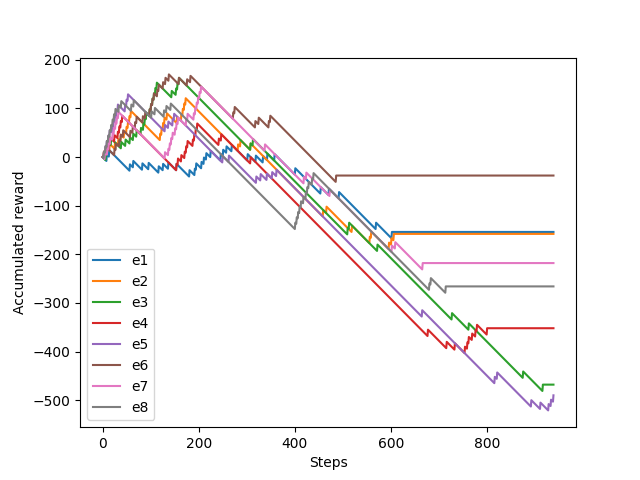
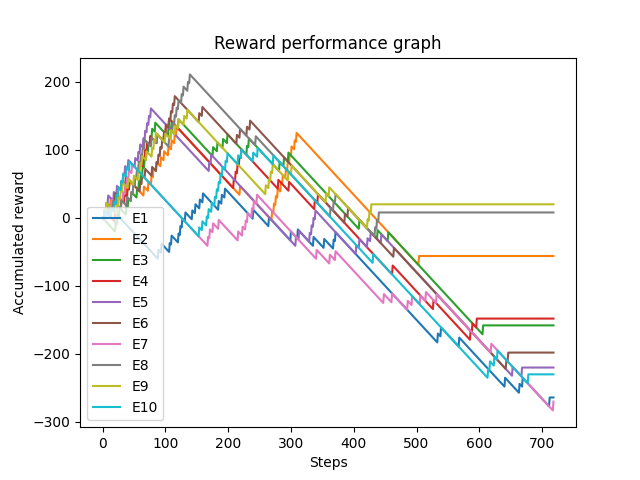
Minor changes

diff --git a/main.py b/main.py
@@ -74,11 +74,13 @@ def plotPerformanceBank(name='performance_bank_plot'):
     for i, ba in enumerate(bank):
         plt.plot(bank_plot_steps[:max(max_len)],
                  np.pad(ba, (0, max(max_len) - len(ba)),
-                        'constant', constant_values=ba[len(ba) - 1]), label='e%d' % (i + 1))
+                        'constant', constant_values=ba[len(ba) - 1]), label='E%d' % (i + 1))
+    plt.title('Reward performance graph')
     plt.xlabel('Steps')
     plt.ylabel('Accumulated reward')
     plt.legend()
     plt.savefig('Images/%s.png' % name)
+    plt.clf()
 
 # ----------------------------------------------------------
 
@@ -91,23 +93,25 @@ delivery_tracker = np.zeros(FIRST_STEPS + SECOND_STEPS)
 
 def plotPerformanceDelSteps(name='performance_del_steps_plot'):
     plt.figure(2)
-    curr_nob = 0
-    last_pos = 0
+    curr_nob = -1
+    last_pos = -1
     track = -1
-    while delivery_tracker[track] != num_of_blocks_delivered: track -= 1
-    for i in range(FIRST_STEPS + SECOND_STEPS + track, FIRST_STEPS + SECOND_STEPS):
-        delivery_tracker[i] = num_of_blocks_delivered
-    for i, n in enumerate(delivery_tracker):
-        if curr_nob == 16:
+    snapshot_delivery_tracker = delivery_tracker[:delivery_steps]
+    snapshot_delivery_plot_steps = delivery_plot_steps[:delivery_steps]
+    while snapshot_delivery_tracker[track] != num_of_blocks_delivered: track -= 1
+    for j in range(delivery_steps + track, delivery_steps):
+        snapshot_delivery_tracker[j] = num_of_blocks_delivered
+    for i, n in enumerate(snapshot_delivery_tracker):
+        if curr_nob == 15:
             curr_nob = -1
         if n == curr_nob + 1:
             curr_nob += 1
             incre = 1/(i - last_pos)
             for j in range(last_pos + 1, i):
-                delivery_tracker[j] = delivery_tracker[j-1] + incre
+                snapshot_delivery_tracker[j] = snapshot_delivery_tracker[j-1] + incre
             last_pos = i
-
-    plt.plot(delivery_plot_steps, delivery_tracker)
+    plt.plot(snapshot_delivery_plot_steps, snapshot_delivery_tracker)
+    plt.title('Blocks delivered performance graph')
     plt.xlabel('Steps')
     plt.ylabel('Block delivered')
     plt.savefig('Images/%s.png' % name)
@@ -251,9 +255,8 @@ def main():
     if plot:
         plotPerformanceBank()
         plotPerformanceDelSteps()
-        plt.show()
 
-def applyAction(action):
+def applyAction(action, state):
     global drop_off_loc
     global pick_up_loc
     global has_block
@@ -374,7 +377,7 @@ def doSteps(steps, policy, method):
         bank_account.append(bank_account[len(bank_account)-1]+reward)
 
         # has_block gets updated here
-        applyAction(action)
+        applyAction(action, state)
         # Register a step between delivery
         delivery_steps += 1
         next_x, next_y = getNextCoords(action, world, x, y)
@@ -389,6 +392,15 @@ def doSteps(steps, policy, method):
         elif method == "SARSA":
             q_table[state][actionToIndex(action)] = sarsa(state, action, reward, next_state, next_actions, policy)
 
+        # RESET Q_VALUES FOR DELI AND PICK SPOT WHEN FULL AND EMPTY
+        '''
+        if action == 'd':
+            if world[(x, y)]['no_of_blocks'] == 4:
+                q_table[state][5] = 0
+        elif action == 'p':
+            if world[(x, y)]['no_of_blocks'] == 0:
+                q_table[state][4] = 0
+        '''
         # keep track of prev state for step visualize part
         prev_x = x
         prev_y = y
@@ -491,6 +503,7 @@ def doSteps(steps, policy, method):
             print('\n' * 5)
             # print(q_table)
             print(valid_actions)
+            print(q_table[state])
             print('action: {:5s}'.format(action), '| reward:', reward)
             print('ntw:', ntw, '| wtn:', wtn)
             if has_block:
@@ -513,7 +526,7 @@ def doSteps(steps, policy, method):
 
             img = cv.imread('Images/agent_monitor.png')
             cv.imshow('agent monitor', img)
-            cv.waitKey(1)
+            cv.waitKey(0)
 
     # output for the last episode
     if step + 1 == SECOND_STEPS:
